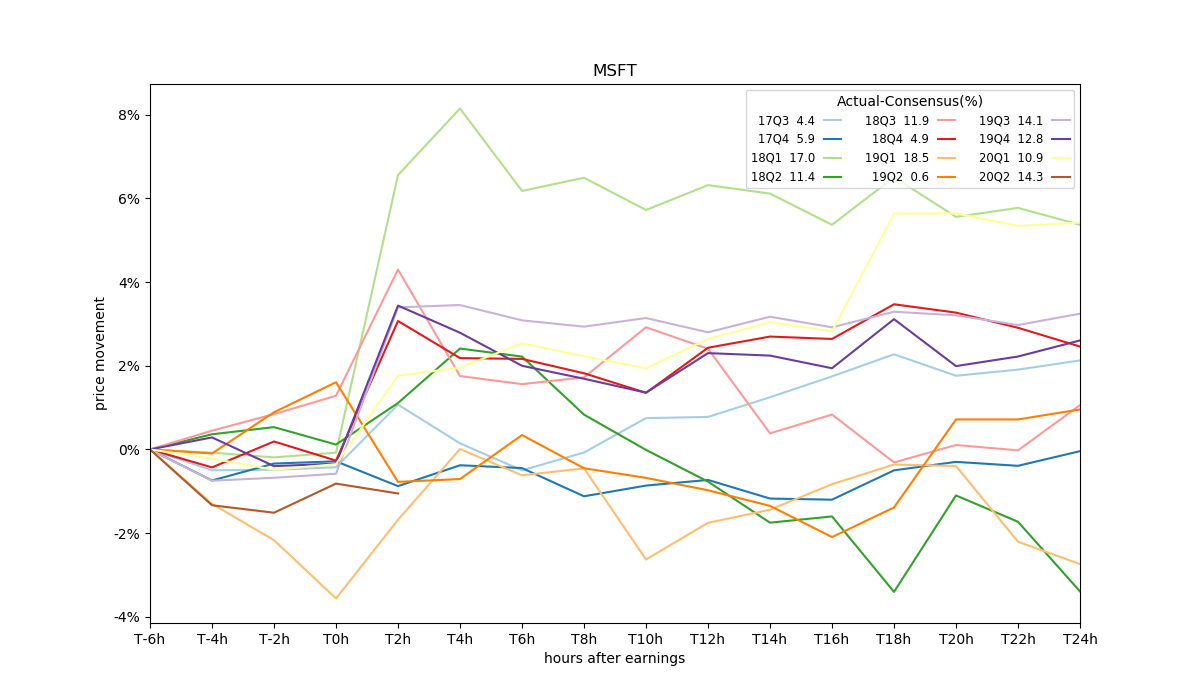
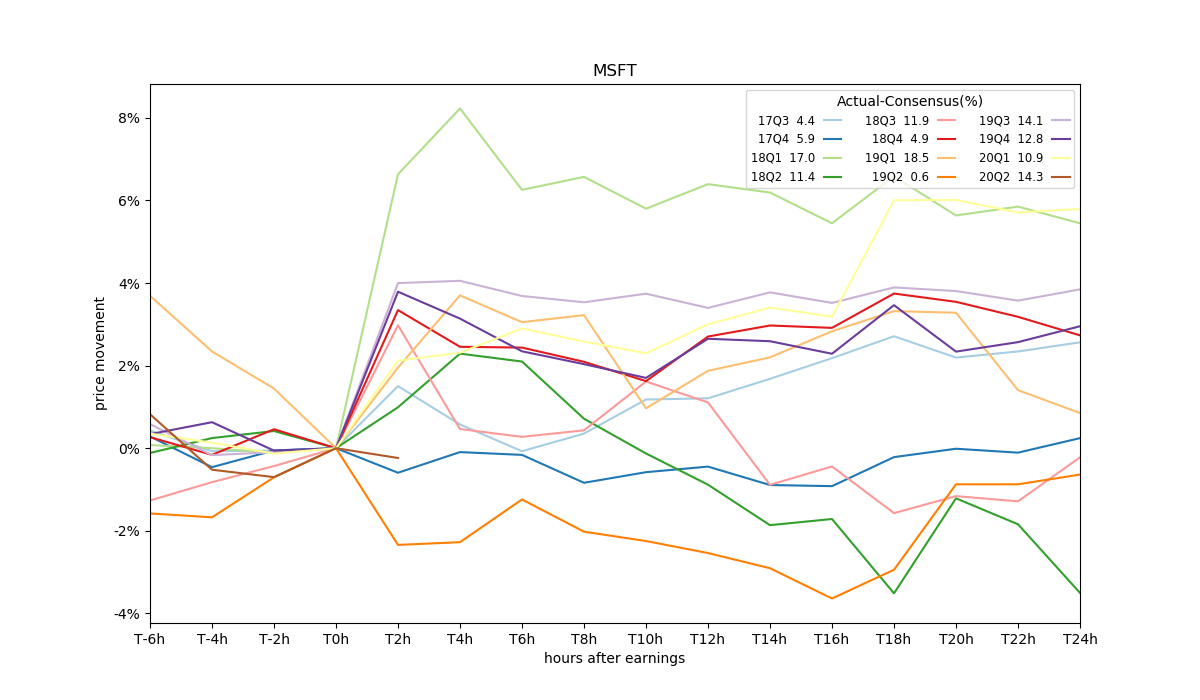
.

diff --git a/earnings_surprise_hour_norm.py b/earnings_surprise_hour_norm.py
@@ -9,8 +9,8 @@ import seaborn as sns
 warnings.simplefilter(action="ignore", category=SettingWithCopyWarning)
 
 
-ticker1 = 'AMD'
-file1 = 'AMD_20200201_3Y_2hours'
+ticker1 = 'TSLA'
+file1 = 'TSLA_20200201_3Y_2hours'
 
 # cleaning data of earning season
 
@@ -96,7 +96,7 @@ merge2['Fis_Earn'] = merge2['Fiscal'].astype(str) + '  ' + merge2['Real-Con'].as
 # normalizing each Quarter, using groupby, apply
 
 def normalizing(df):
-    df['Open'] = (df['Open'] / df['Open'][0] -1) *100
+    df['Open'] = (df['Open'] / df['Open'][3] -1) *100
     return df
 
 

diff --git a/reqHistBar_ibinsync.py b/reqHistBar_ibinsync.py
@@ -3,7 +3,7 @@ import pandas as pd
 import datetime as dt
 # util.startLoop()  # uncomment this line when in a notebook
 
-symbol1 = "AMD"
+symbol1 = "ATVI"
 sectype = "STK"
 exchange1 = "SMART"
 enddatetime_temp = '20200201 00:00:00'
